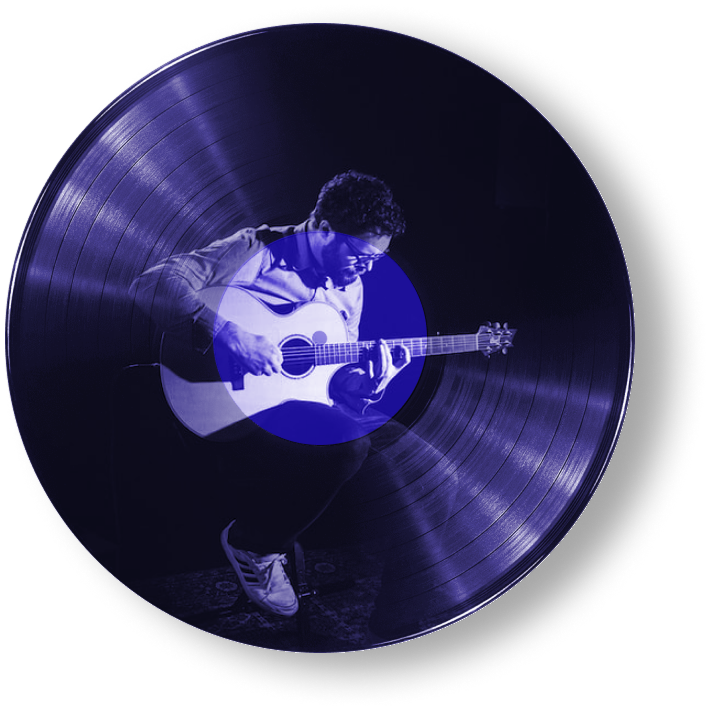
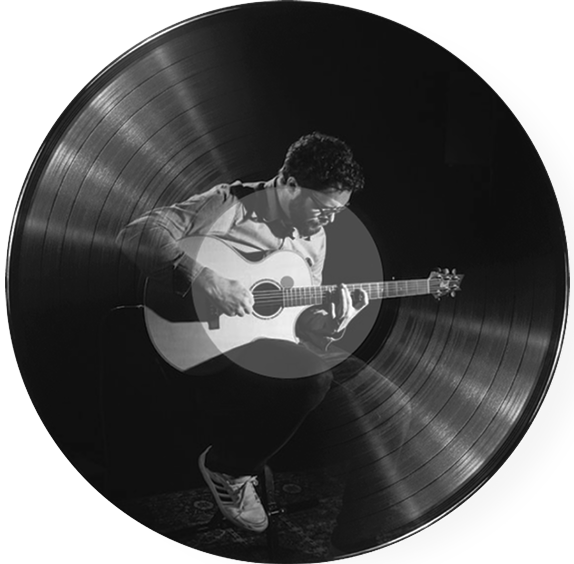
Countdown page updated

diff --git a/app/countdown/page.tsx b/app/countdown/page.tsx
@@ -62,10 +62,7 @@ export default function CountdownPage() {
   
   return (
     <div className={styles.container}>
-      <div className={styles.backgroundGraphics}>
-        <div className={styles.circle1}></div>
-        <div className={styles.circle2}></div>
-      </div>
+      
       
       <div className={styles.content}>
         {/* Left side - Record */}
@@ -82,10 +79,10 @@ export default function CountdownPage() {
           </div>
           <div className={styles.vinylWrapper}>
             <Image 
-              src="/images/record.png" 
+              src="/images/records.png" 
               alt="Vinyl record" 
-              width={800} 
-              height={800}
+              width={565} 
+              height={565}
               className={styles.vinylImage}
               priority 
             />
@@ -149,11 +146,9 @@ export default function CountdownPage() {
               </div>
             </div>
             
-            <div className={styles.releaseInfo}>
-              <p>TITLE: ABC QWRT</p>
-              <p>ARTISTS: WEEKEND, DAFT PUNK</p>
+          
               <button className={styles.notifyButton}>GET NOTIFIED</button>
-            </div>
+          
             
             {/* Social share buttons removed as requested */}
           </div>

diff --git a/app/countdown/countdown.module.css b/app/countdown/countdown.module.css
@@ -30,28 +30,7 @@
     z-index: 0;
   }
   
-  .circle1 {
-    position: absolute;
-    width: 400px;
-    height: 400px;
-    border-radius: 50%;
-    background: linear-gradient(45deg, rgba(255, 102, 0, 0.1), rgba(255, 0, 0, 0.05));
-    top: -100px;
-    left: -100px;
-    filter: blur(50px);
-  }
-  
-  .circle2 {
-    position: absolute;
-    width: 600px;
-    height: 600px;
-    border-radius: 50%;
-    background: linear-gradient(135deg, rgba(0, 102, 255, 0.05), rgba(128, 0, 255, 0.1));
-    bottom: -200px;
-    right: -200px;
-    filter: blur(60px);
-  }
-    
+
   /* Record section styles */
   .recordSection {
     position: relative;
@@ -101,7 +80,7 @@
     display: flex;
     flex-direction: column;
     justify-content: center; /* Center content vertically */
-    margin-left: -200px;
+    margin-left: -250px;
     border-left: 1px solid rgba(255, 255, 255, 0.7);
     overflow-y: auto;
   }
